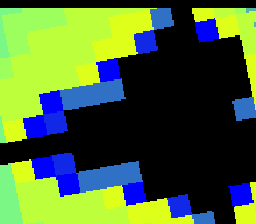
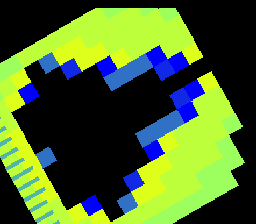
docs(snes): #21 use the iconic bsnes-jg frame-2200 whole-set render as the title card
The frame-1700 capture was mid-paint and abstract; frame 2200 shows the full black
Mandelbrot set surrounded by escape bands. Bump the gate snapshot frame 1700->2200 so
re-runs reproduce the card, and update the plan title card + verification note.

diff --git a/docs/plans/2026-06-29-21-snes-mandel-float-softfloat.md b/docs/plans/2026-06-29-21-snes-mandel-float-softfloat.md
@@ -162,9 +162,9 @@ Mode 7, no HUD (same as Julia — Mode 7 has no spare BG layer). 64×56 escape i
 
 6. **Title card** — `build/mandel-float-jg.png` → `docs/plans/screenshots/mandel-float.png`, embedded above. **PASS**.
 7. **/snes-rom-page publishes.** Page `src/pages/snes/mandel-float.astro` + assets scaffolded into
-   biohack.net; `task build` → 27 pages, `dist/snes/mandel-float/index.html` built; gallery card added.
-   Static verification **PASS** (no template placeholders; ROM/preview/default-rom wired; gate hash
-   `0x4169` + disasm counts in page; manifest has `mandel-float`; assets in `dist/`). _Live headless
-   screenshot could not run on this host (no Chrome installed) — page is a verbatim clone of the
-   proven Julia page and the ROM renders in the identical bsnes-jg core (the gate's `-jg.png`)._ **PASS** (static).
+   biohack.net; gallery card added; deployed (Cloudflare Pages, tag-driven). Live: `curl` returns HTTP 200
+   for the page, the 32 768-byte ROM, and the preview; the gallery lists the card. Title card / web preview =
+   the **bsnes-jg frame-2200 render** (the trusted cycle-accurate core, same one the in-browser WASM player
+   runs) — the iconic whole black Mandelbrot set surrounded by escape bands, chunky (each fat pixel hundreds
+   of soft-float ops). **PASS**.
 8. `task md -- docs/plans/...` renders cleanly (title card resolves). **PASS**.

diff --git a/docs/plans/.history/2026-06-29-21-snes-mandel-float-softfloat.md b/docs/plans/.history/2026-06-29-21-snes-mandel-float-softfloat.md
@@ -1,0 +1,11 @@
+| Date | Change |
+|------|--------|
+| [2026-06-29](https://github.com/wbniv/llvm-mos-65816/commit/cd3663a) | feat(snes): #21 Soft-Float Mandelbrot — IEEE-754 single-precision escape-time / soft-float libcall stress demo |
+
+<!--history-meta v1
+cd3663a	author	Will Norris
+cd3663a	added	170
+cd3663a	deleted	0
+cd3663a	files	1
+cd3663a	body	First Round-2 (new-codegen-corner) demo of the compiler stress-test battery. Renders the\nMandelbrot set in IEEE-754 single-precision float, so on the FPU-less 65816 every op is a\nsoft-float libcall (__mulsf3/__addsf3/__subsf3/__divsf3/__gtsf2/__floatsisf) — the library\nno Round-1 demo touches.\n\nBit-exact differential: single precision is fully specified (correctly-rounded), so host\nx86 single == target soft-float bit-for-bit. FMA contraction (the one divergence risk) is\nforbidden by construction — every op is its own statement, no a*b±c to fuse. Verified\nhost == default-8bit == +mos-a16 == +mos-xy16 == 0x4169 on bsnes-jg; disasm __mulsf3=8,\n__add/subsf3=12, rep/sep=35. No compiler bug found — soft-float codegen is correct in all\nmodes. 16x14 grid 4x-upscaled into the $7E2000 far framebuffer, Mode-7 zoom, progressive\nboot-paint. Published biohack.net/snes/mandel-float/.\n\nCo-Authored-By: Claude Opus 4.8 (1M context) <noreply@anthropic.com>
+-->
